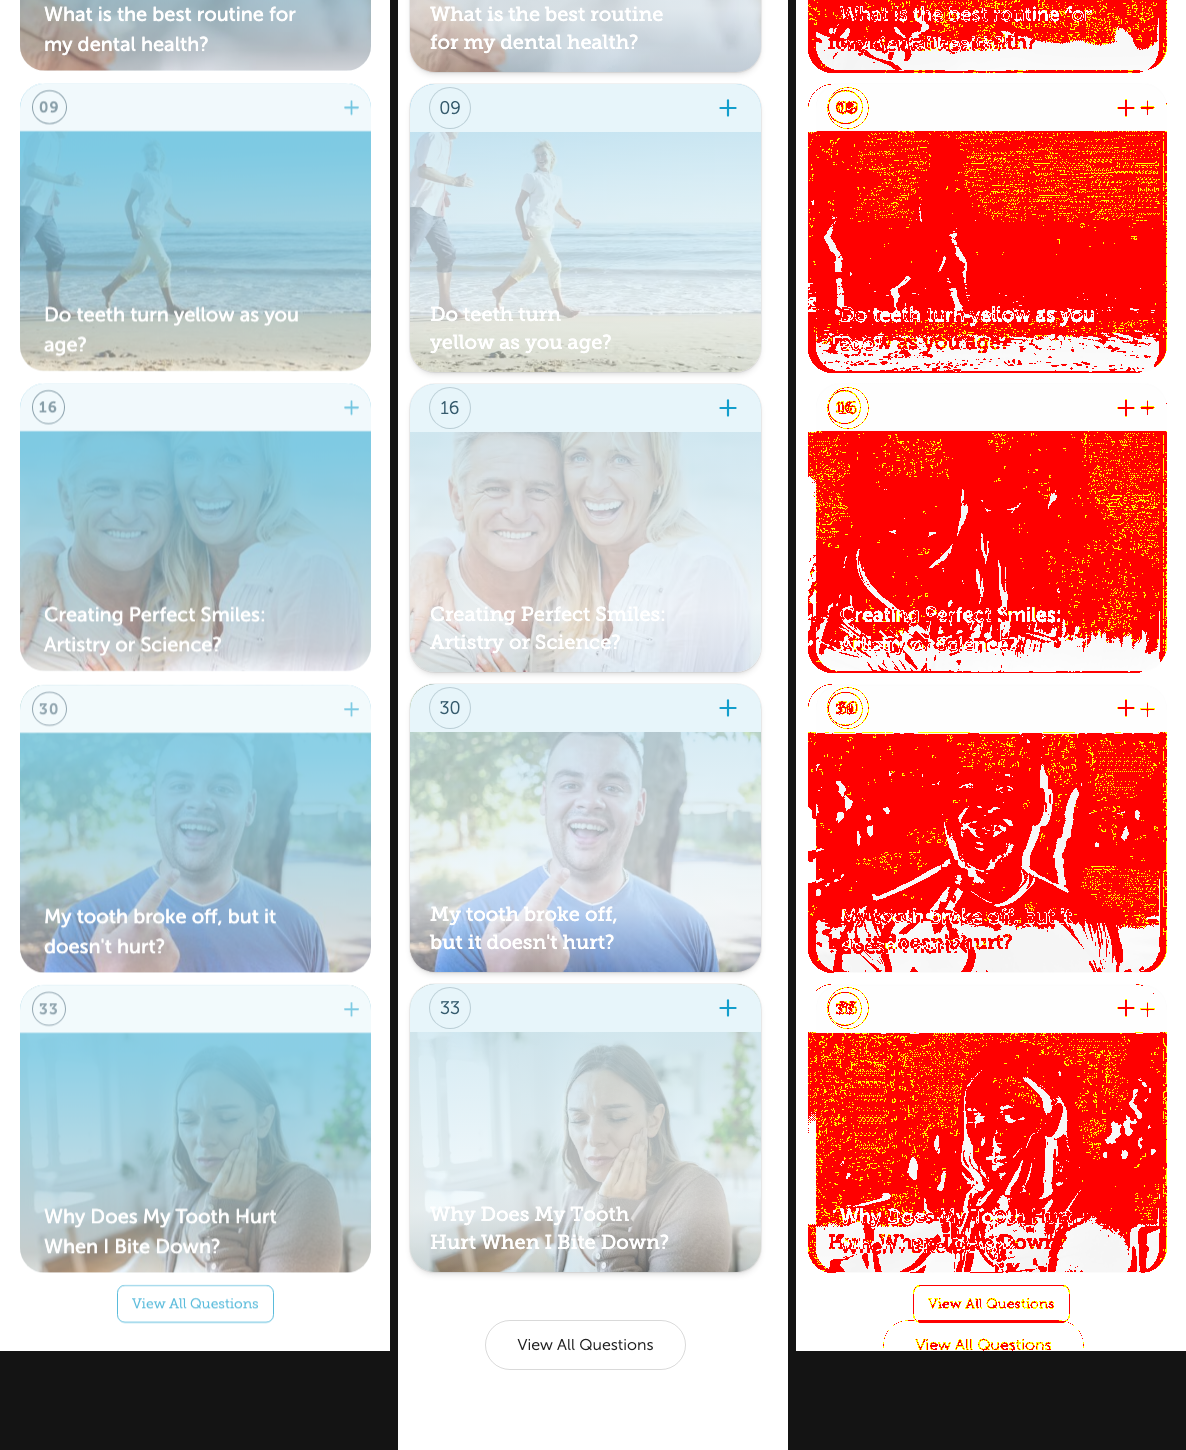
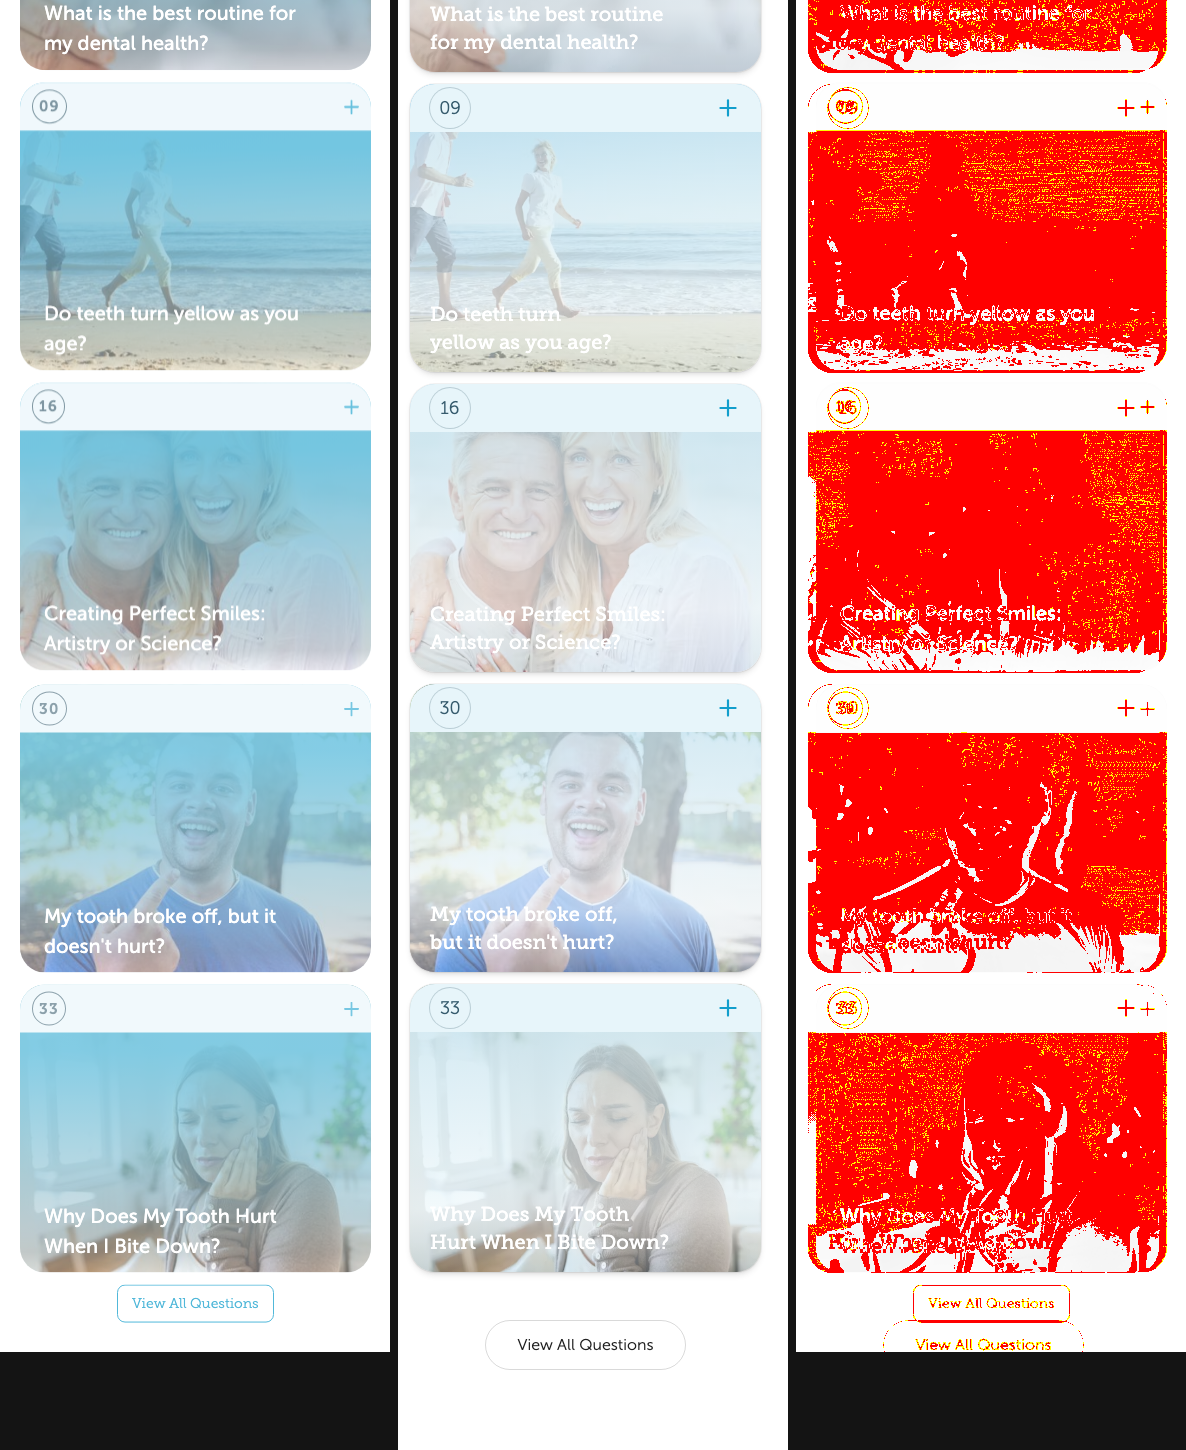
fix(design): 3-C mobile body copy to live's 20px/30px (was 15px)
Live's card body is 20px/30px weight-300 white at a 24px inset (width 303); we
were rendering 15px, which changed the wrap. Now faithful to live's measured
value. Residual is a one-word wrap difference (font metrics) over the photo.

diff --git a/src/lib/slices/SectionGrid/index.svelte b/src/lib/slices/SectionGrid/index.svelte
@@ -333,8 +333,10 @@
                 aria-hidden="true"
               ></div>
               {#if expandable}
+                <!-- Live body copy: 20px/30px weight-300 white, 24px inset
+                     (width 303) — not the 15px we had. -->
                 <div
-                  class="absolute inset-x-0 top-0 p-5 text-[15px] leading-snug font-light text-white [&_*]:text-white"
+                  class="absolute inset-x-0 top-0 p-6 text-[20px] leading-[30px] font-light text-white [&_*]:text-white"
                 >
                   <RichTextBody field={item.item_body} />
                 </div>
